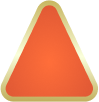
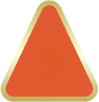
change images + style changes

Changed region(s): [[0.3636, 0.4412, 0.6364, 0.7647]]

diff --git a/src/App.css b/src/App.css
@@ -1,5 +1,5 @@
 * {
-  font-family: Arial, Helvetica, sans-serif;
+  font-family: Arial, Helvetica, sans-serif !important;
 }
 
 .App {
@@ -49,7 +49,7 @@
   color: #000;
   font-size: 0.8rem;
   font-weight: bold;
-  color: #ec5c28;
+  color: #dd5a27;
   text-transform: uppercase;
   font-weight: 600;
   font-size: 26px;
@@ -98,12 +98,15 @@
   margin-left: initial !important;
   margin-right: initial !important;
   height: 100%;
-  background-image: linear-gradient(#e85321b9, #e8542199);
+  background-image: url("/public/images/banner.png"); /* linear-gradient(#e85321b9, #e8542199); */
+  background-size: cover; /* This property ensures the background image is contained within the div */
+  background-repeat: no-repeat; /* Prevent the background image from repeating */
+  background-position: center;
   max-width: 350px;
 }
 
 .f-cl-orange {
-  color: #ec5c28 !important;
+  color: #dd5a27 !important;
 }
 
 .f-cl-grey {
@@ -111,7 +114,7 @@
 }
 
 footer {
-  background-color: #e75a29;
+  background-color: #dd5a27;
   color: #fff;
 }
 
@@ -119,18 +122,13 @@ footer p {
   font-size: 15px;
 }
 
-footer > .bi {
+footer .bi {
   font-size: 25px;
-}
-
-footer > .bi-x-diamond-fill {
-  font-size: 8px !important;
-  font-weight: 100;
 }
 
 footer input,
 footer button {
-  background: #e75a29 !important;
+  background: #dd5a27 !important;
   color: #fff !important;
   border: 1px solid #fff !important;
 }
@@ -138,7 +136,11 @@ footer button {
 .img-spin {
   position: absolute !important;
   left: 0px;
-  top: 50%;
-  transform: translate(0px, -50%);
-  width: 50px;
+  top: 0;
+  transform: translate(0px, 100%);
+  width: 65px;
+}
+
+.dotted-line {
+  width: 50%;
 }

diff --git a/src/components/Footer.tsx b/src/components/Footer.tsx
@@ -5,19 +5,15 @@ export default function Footer() {
   return (
     <footer className="pt-2 pb-1 sticky">
       <h1>Follow Us On</h1>
-      <i className="bi bi-facebook mx-2" />
-      <i className="bi bi-youtube mx-2" />
-      <i className="bi bi-instagram mx-2" />
-      <i className="bi bi-tiktok mx-2" />
+      <div className="w-50 mx-auto d-flex justify-content-between">
+        <i className="bi bi-facebook" />
+        <i className="bi bi-youtube" />
+        <i className="bi bi-instagram" />
+        <i className="bi bi-tiktok" />
+      </div>
 
       <br />
-      <i className="bi bi-x-diamond-fill mx-2"></i>
-      <i className="bi bi-x-diamond-fill mx-2"></i>
-      <i className="bi bi-x-diamond-fill mx-2"></i>
-      <i className="bi bi-x-diamond-fill mx-2"></i>
-      <i className="bi bi-x-diamond-fill mx-2"></i>
-      <i className="bi bi-x-diamond-fill mx-2"></i>
-      <i className="bi bi-x-diamond-fill mx-2"></i>
+      <img src="/images/dotted-line.png" className="dotted-line" alt="dotted line"/>
 
       <div className="container mt-4 mb-3">
         <Row>
@@ -35,7 +31,10 @@ export default function Footer() {
       <h1>Contact For Queries.</h1>
       <p>Have Questions? Get in touch.</p>
       <InputGroup className="mb-3 px-2">
-        <Form.Control className="text-center get-in-touch" placeholder="Click To Get Connected" />
+        <Form.Control
+          className="text-center get-in-touch"
+          placeholder="Click To Get Connected"
+        />
         <Button>
           <i className="bi bi-arrow-right"></i>
         </Button>

diff --git a/src/components/SpinWheel.tsx b/src/components/SpinWheel.tsx
@@ -1,4 +1,4 @@
-import React, { useEffect, useState } from "react";
+import React, { useState } from "react";
 import { Wheel } from "react-custom-roulette";
 import { WheelData } from "react-custom-roulette/dist/components/Wheel/types";
 
@@ -18,12 +18,14 @@ export default function SpinWheel() {
   const [rouletteData, setRouletteData] = useState(data);
 
   let spinWheelBg: React.CSSProperties = {
-    backgroundImage: `url("/images/golden-bokeh-light-bg.png")`,
+    backgroundImage: `url("/images/banner.png")`,
     position: "relative",
     height: "300px",
+    backgroundSize: "cover",
+    
   };
 
-  const finalizeSpinnerInit = () => {
+  /* const finalizeSpinnerInit = () => {
     setTimeout(() => {
       const handleSpinButtonClick = (e: any) => {
         e.preventDefault();
@@ -57,19 +59,19 @@ export default function SpinWheel() {
         console.log("No spinner div");
       }
     }, 1500);
-  };
+  }; */
 
   //useEffect(finalizeSpinnerInit, []);
 
   return (
     <div style={spinWheelBg} className="spinner-parent">
-      <div className="banner">
+      {/* <div className="banner">
         <img
           src="/images/title.png"
           style={{ width: "80%", marginTop: "10px" }}
           alt={"Background"}
         />
-      </div>
+      </div> */}
       <Wheel
         mustStartSpinning={mustSpin}
         prizeNumber={prizeNumber}

diff --git a/src/components/LandingPage.tsx b/src/components/LandingPage.tsx
@@ -1,16 +1,15 @@
 import React from "react";
-import { recentWinners, topWinners } from "../data/data";
+import { recentWinners } from "../data/data";
 import Description from "./Description";
 import ListComponent from "./ListComponent";
 import SpinWheel from "./SpinWheel";
 
-export default function () {
+export default function LandingPage() {
   return (
     <div>
       <SpinWheel />
       <Description />
       <ListComponent title={"RECENT WINNERS"} data={recentWinners} />
-      <ListComponent title={"TOP WINNERS"} data={topWinners} />
     </div>
   );
 }

diff --git a/src/components/MyWinnings.tsx b/src/components/MyWinnings.tsx
@@ -1,6 +1,4 @@
 import { Button, Card } from "react-bootstrap";
-import { useNavigate } from "react-router-dom";
-
 export default function MyWinnings() {
   return (
     <div className="m-4">
@@ -14,7 +12,7 @@ export default function MyWinnings() {
           </Card.Text>
         </Card.Body>
         <Card.Body>
-          <Button style={{ backgroundColor: "#ec5c28", border: "none" }}>Receive</Button>
+          <Button style={{ backgroundColor: "#DD5A27", border: "none" }}>Receive</Button>
         </Card.Body>
       </Card>
     </div>
